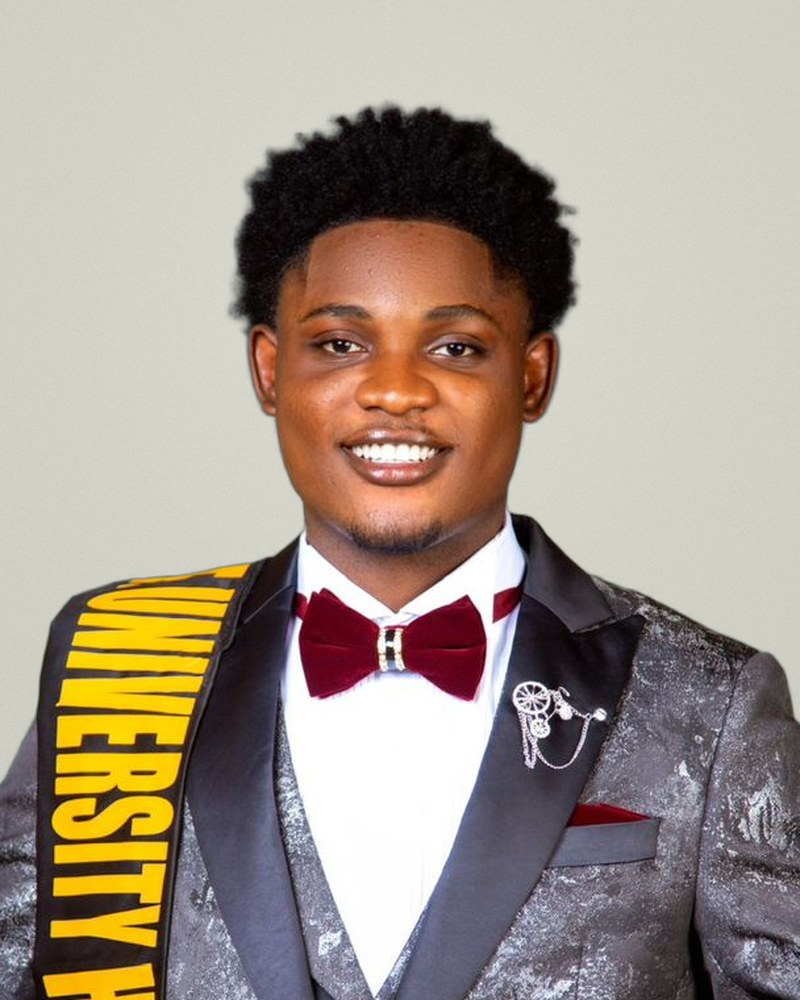
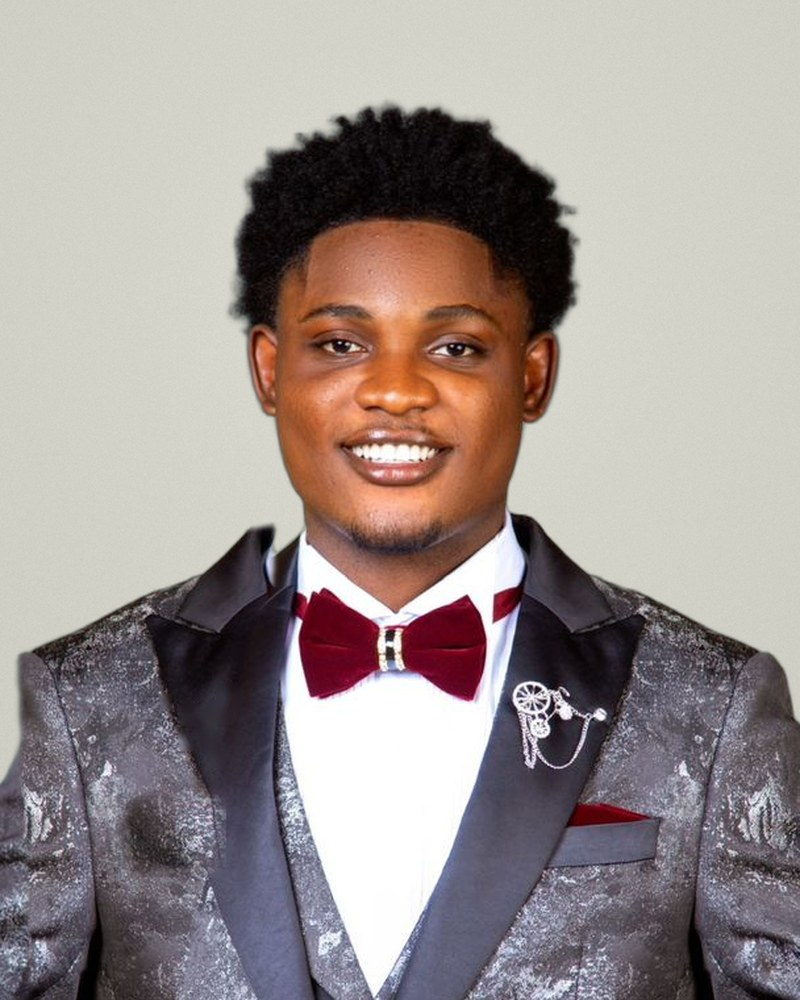
Use the headshot without the graduation sash
Claude-Session: https://claude.ai/code/session_01SyjZdswN4zosr6gkXizSX3

Changed region(s): [[0.0, 0.527, 0.3438, 1.0]]

diff --git a/PROGRESS.md b/PROGRESS.md
@@ -169,6 +169,9 @@ The project instructions hold the full text. Every change must keep to them.
       (2026-10-06): headline, spacing and stats sized by screen height.
       Checked at 1920x1080, 1920x950, 1536x730, 1440x780, 1366x650,
       1280x765 (1920 screen at 150% scaling), 1280x640 and 1024x690.
+- [x] Headshots without the graduation sash (2026-10-06) on Home, About and
+      the share card (`public/og-image.jpg`, 84KB). Source files live in
+      `brand/headshot/` and `brand/logo/web/` in the project folder.
 
 ## In progress
 
@@ -184,13 +187,7 @@ The project instructions hold the full text. Every change must keep to them.
 4. AWS setup per `docs/deployment.md`, then the secrets
    `AWS_DEPLOY_ROLE_ARN`, `AWS_S3_BUCKET`, `AWS_CLOUDFRONT_DISTRIBUTION_ID`.
 5. Real reference quotes (mentor, former manager) with names and permission.
-6. Headshot without the graduation sash: being made in the brand thread.
-   When it lands in `brand/headshot/`, copy it over
-   `src/assets/headshot/headshot-portrait-green.jpg` (the one file
-   `ArchPortrait.astro` imports, used on Home and About), rebuild
-   `public/og-image.jpg` (the share card, 1200x630, under 300KB) from it,
-   and rebuild.
-7. The two ALX certificates as images (screenshot or PDF). ALX blocks
+6. The two ALX certificates as images (screenshot or PDF). ALX blocks
    automated access, so those two tiles show an "ALX" placeholder for now.
 
 ## Next steps, in order
